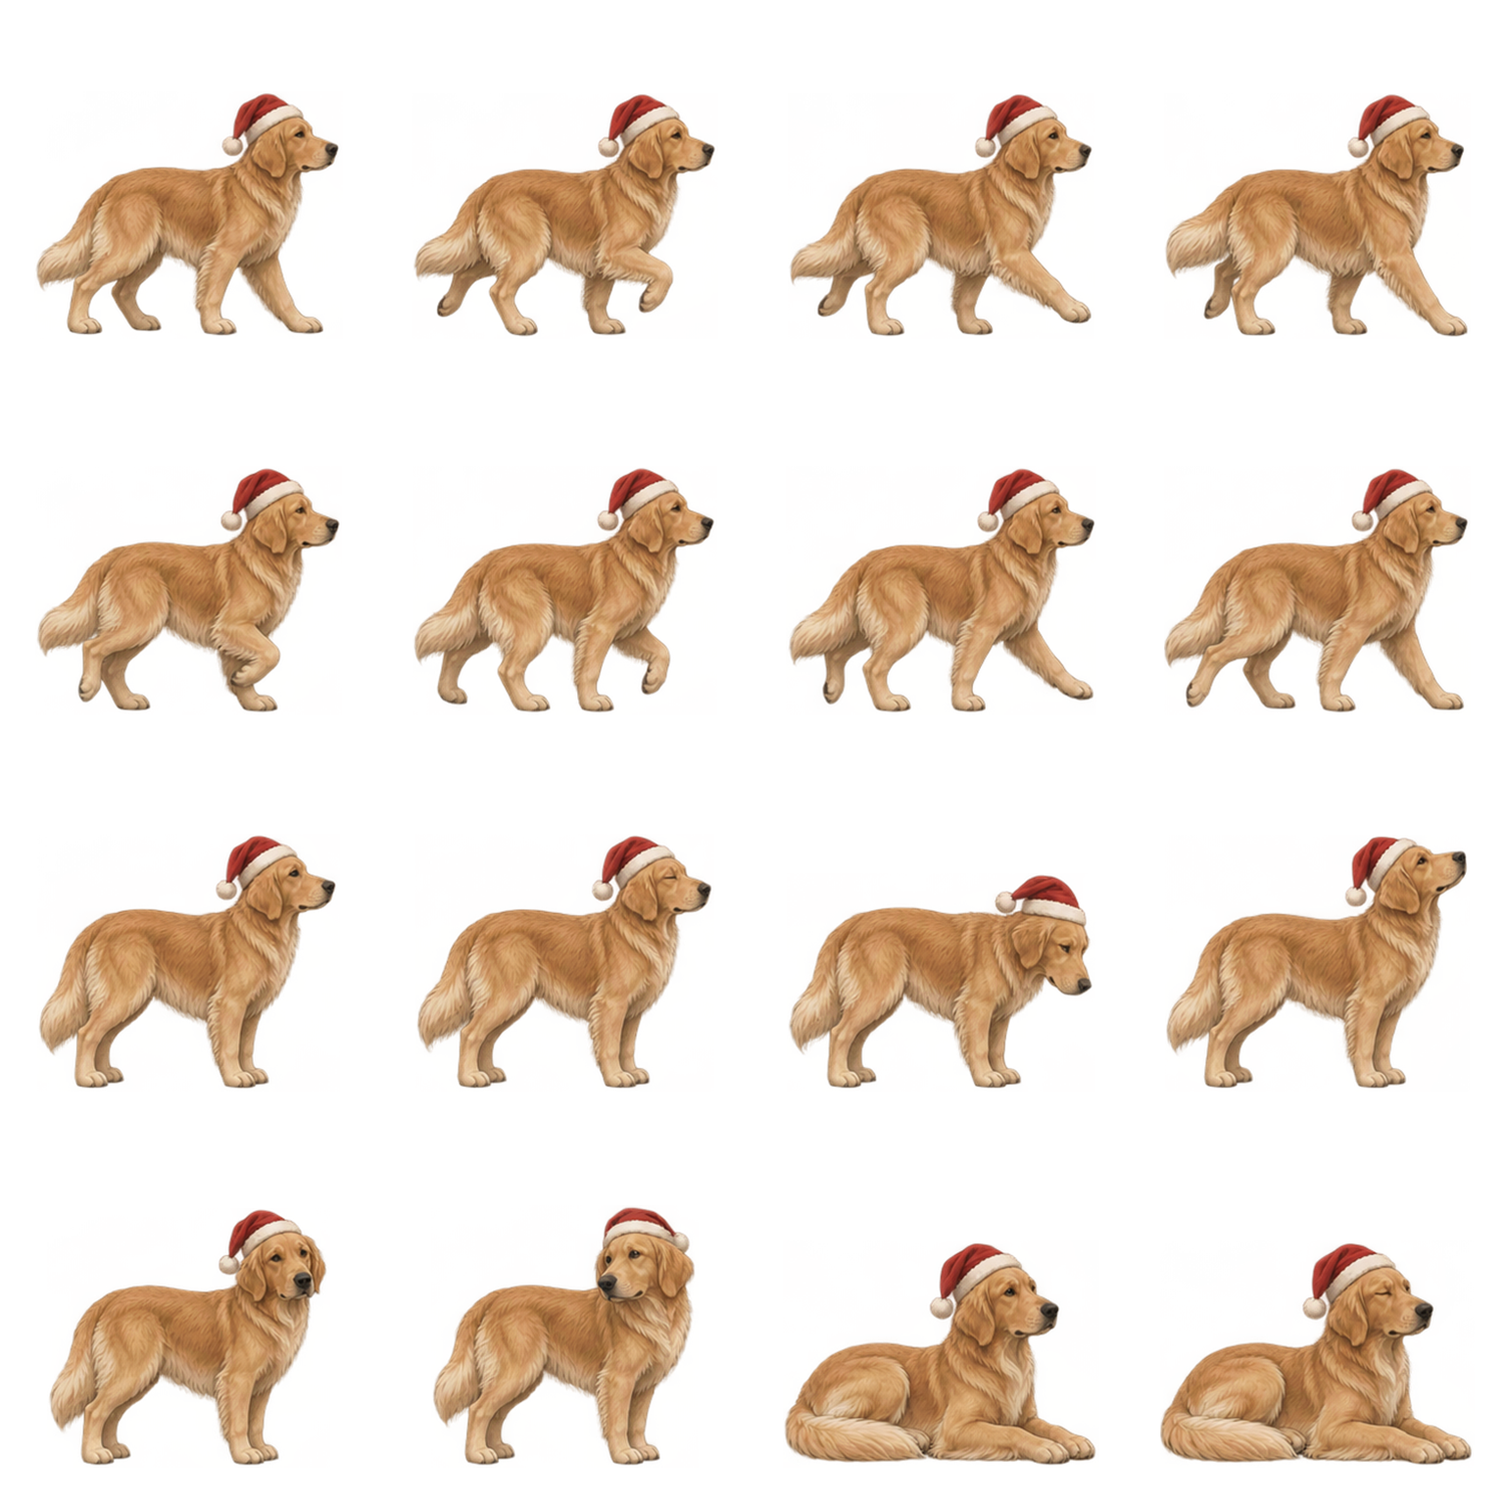
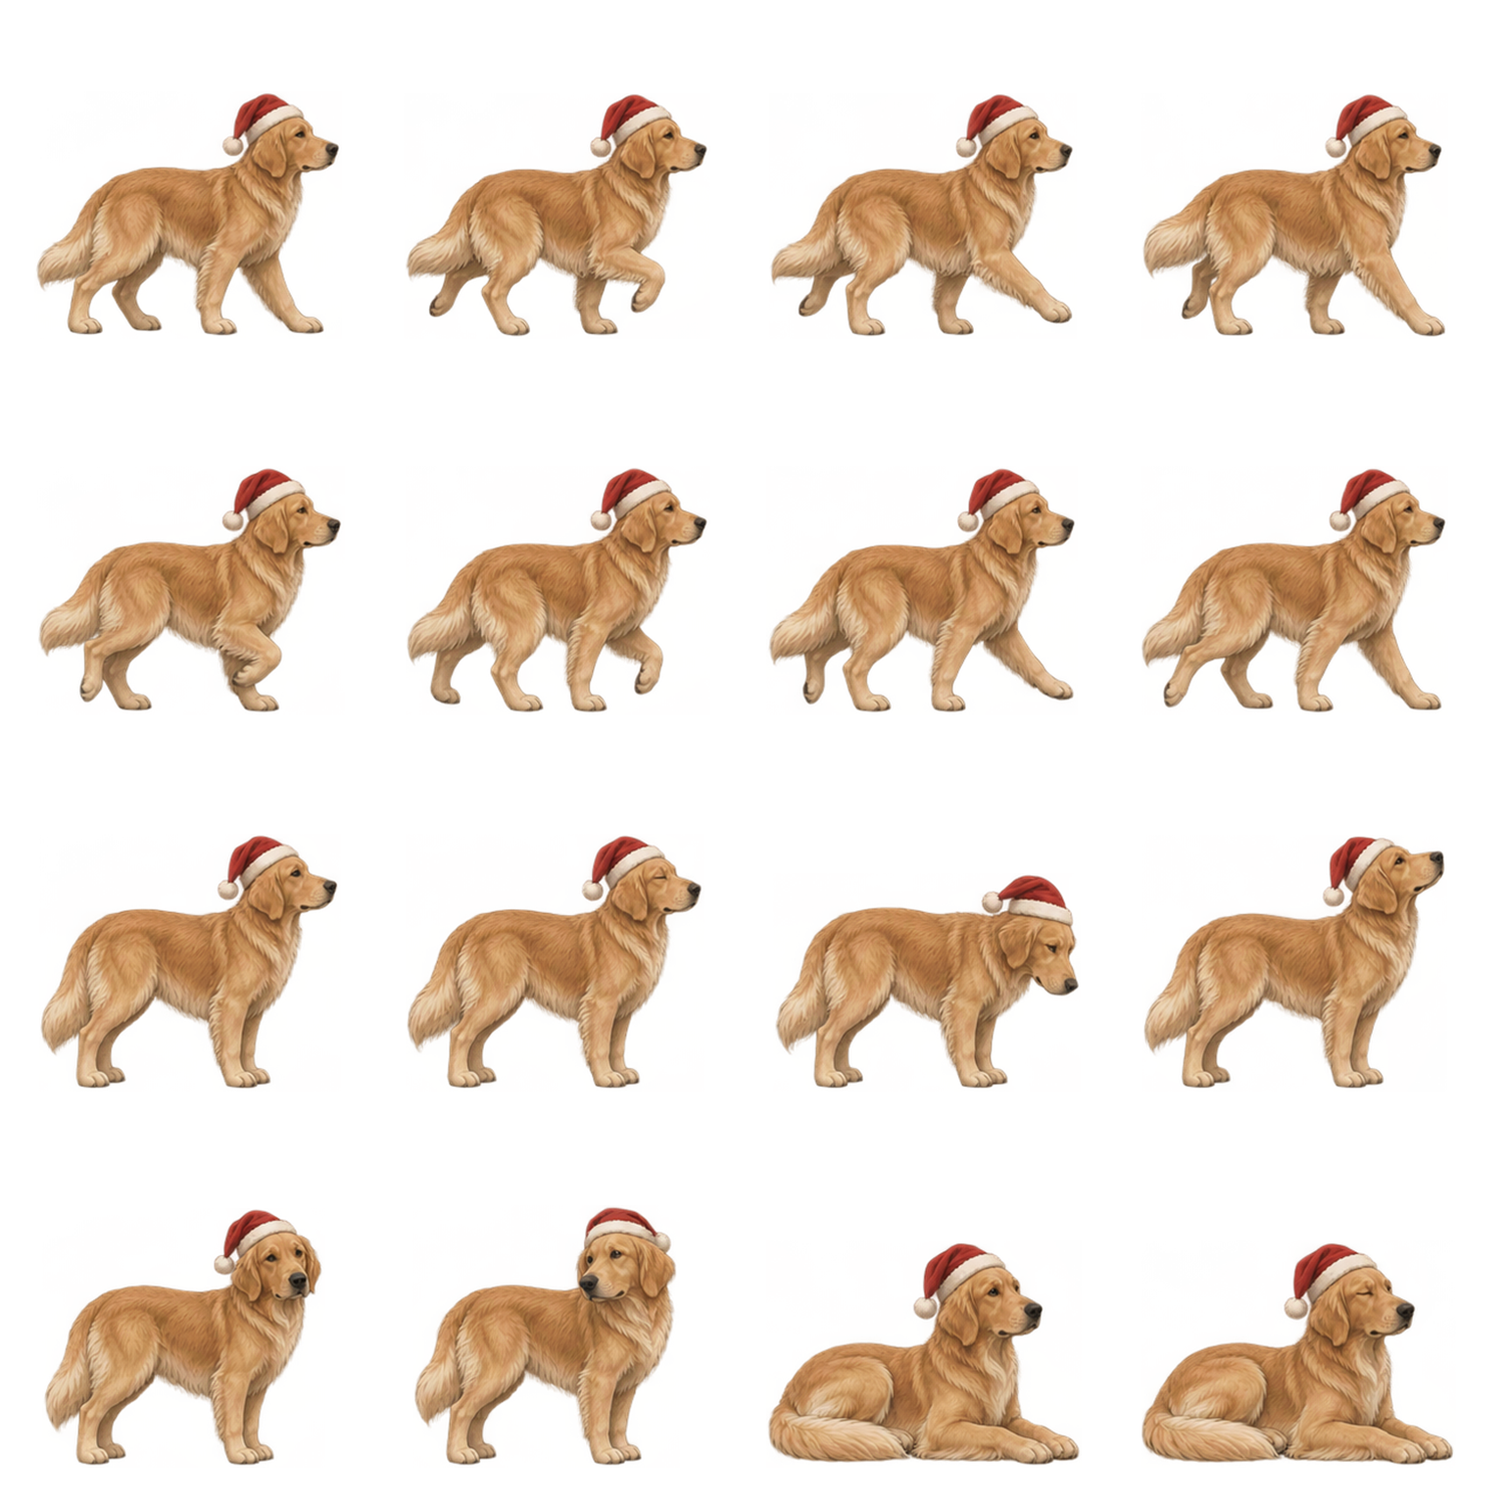
Refresh Christmas forest and improve sprite motion, rabbit behavior, and dance continuity

diff --git a/christmas.js b/christmas.js
@@ -8,11 +8,13 @@ window.GD_CHRISTMAS = (() => {
   const WALK = [0,1,2,3,4,5,6,7];
   const images = names => names.map(name => {
     const image = new Image();
-    image.src = new URL(`assets/christmas/${name}.png`, scriptBase).href;
+    image.src = new URL(`assets/christmas/${name}.png?v=20261121`, scriptBase).href;
     return image;
   });
   const assets = images(['millie','winston']);
-  const danceAssets = images(['millie-dance','winston-dance']);
+  const danceAssets = images(['millie-dance-v2','winston-dance-v2']);
+  const riseAssets = images(['millie-dance','winston-dance']);
+  const rabbitBehaviors = images(['winston-behaviors']);
   const waitForImages = list => Promise.all(list.map(image => new Promise(resolve => {
     if (image.complete) return resolve(image.naturalWidth > 0);
     image.onload = () => resolve(true);
@@ -20,7 +22,9 @@ window.GD_CHRISTMAS = (() => {
   })));
   const loaded = waitForImages(assets);
   let danceReady = false;
-  waitForImages(danceAssets).then(results => { danceReady = results.every(Boolean); });
+  waitForImages([...danceAssets,...riseAssets]).then(results => { danceReady = results.every(Boolean); });
+  let behaviorReady=false;
+  waitForImages(rabbitBehaviors).then(results=>{behaviorReady=results.every(Boolean);});
   let canvas, ctx, enabled = false, ready = false, raf = 0, lastDraw = 0;
   let width = 0, height = 0, floor = 0, sizes = [], protectedRects = [];
   let homePositions = [.105,.90];
@@ -66,7 +70,7 @@ window.GD_CHRISTMAS = (() => {
   }
   // Segments carry their own frame sequences, rather than translating still photos.
   function track(who) {
-    let x = homes()[who], t = 0, dir = -1;
+    let x = homes()[who], t = 0, dir = who?-1:1;
     const segments = [];
     const api = {
       segments,
@@ -78,10 +82,11 @@ window.GD_CHRISTMAS = (() => {
       go(to) {
         const edge=sizes[who]*.45/width;
         to=Math.max(edge,Math.min(1-edge,to));
-        const duration = Math.abs(to-x)*(who?26000:34000);
+        const hops=Math.max(1,Math.ceil(Math.abs(to-x)*width/(sizes[who]*.75)));
+        const duration = who?hops*520:Math.abs(to-x)*34000;
         if (duration < 1) return api;
         dir = to>x ? 1 : -1;
-        segments.push({t,d:duration,x0:x,x1:to,dir,frames:WALK,fps:who?11:10,hop:!!who});
+        segments.push({t,d:duration,x0:x,x1:to,dir,frames:WALK,fps:who?1000/65:10,hop:!!who,hops});
         t += duration; x = to; return api;
       },
       home() { api.go(homes()[who]); dir = who?-1:1; return api; },
@@ -93,9 +98,9 @@ window.GD_CHRISTMAS = (() => {
   const SCENES = [
     ['millie-stroll',(m,w) => { m.hold(8,500).go(.29).hold([8,10,10,8],2400).home(); w.hold([8,11,8],4500,2); }],
     ['winston-explores',(m,w) => { w.go(.68).hold([8,10,10,8],2600).home(); m.hold([14,14,12,14],6500,1); }],
-    ['christmas-greeting',(m,w) => { m.hold(8,400).go(.35).hold([8,12,8],3500,2).home(); w.go(.55).face(-1).hold([8,11,8],3500,2).home(); }],
+    ['christmas-greeting',(m,w) => { m.hold(8,400).go(.35).face(1).hold([8,12,8],5000,2).home(); w.go(.55).face(-1).hold([8,11,8],9000,2).home(); }],
     ['graph-watch',(m,w) => { m.hold(8,300).go(.25).hold([8,10,8,11,8],3800,2).home(); w.hold(8,2000).go(.75).hold([10,8,11,8],3000,2).home(); }],
-    ['follow-millie',(m,w) => { m.hold(8,300).go(.43).hold([8,13,8],2800,2).home(); w.hold(8,1300).go(.58).hold([8,12,8],2200,2).home(); }],
+    ['follow-millie',(m,w) => { m.hold(8,300).go(.43).hold([8,13,8],2800,2).home(); w.hold(8,1300).go(.58).face(-1).hold([8,12,8],8500,2).home(); }],
     ['snowflake-listening',(m,w) => { m.hold([8,11,8,12,8,9,8],6500,2).hold(14,1200); w.hold([8,11,8,13,8,9,8],6800,2); }],
     ['sniff-the-present',(m,w) => { m.hold(8,300).go(.065).hold([8,10,10,8,10,8],4400,2).home(); w.hold([8,12,8],6000,1); }],
     ['tree-inspection',(m,w) => { w.go(.94).hold([8,11,11,8,13,8],4300,2).home(); m.hold([14,12,14,9,14],6000,1); }],
@@ -103,22 +108,33 @@ window.GD_CHRISTMAS = (() => {
     ['winston-short-hop',(m,w) => { w.go(.81).hold([8,13,8],2100,2).go(.70).hold([8,10,8],2300,2).home(); m.hold([14,12,14],8000,1); }],
     ['settling-down',(m,w) => { m.hold([8,10,8,14,14,15,14],7000,1); w.hold([8,10,8,14,15,14,8],7000,1); }],
     ['crossing-paths',(m,w) => { m.hold(8,400).go(.64).hold([8,13,8],2200,2).home(); w.hold(8,1800).go(.38).hold([8,12,8],2300,2).home(); }],
+    ['rabbit-lookout',(m,w)=>{
+      w.face(-1).hold([0,1,2,3],700,1000/175,2).hold([4,5,6,7,6,5],3500,3,2).hold([3,2,1,0],700,1000/175,2);
+      m.face(1).hold([8,12,8,11,8],4900,2);
+    }],
+    ['rabbit-face-wash',(m,w)=>{
+      w.face(1).hold([15,8,9,10,11,12,13,10,11,12,13,14,15],5200,2.5,2);
+      m.face(1).hold([14,14,15,14],5200,1);
+    }],
+    ['playful-follow',(m,w)=>{
+      m.go(.38).face(1).hold([8,10,8,12],2600,2).home();
+      w.hold(8,800).go(.62).face(-1).hold(8,4500).hold([0,1,2,3,4,6,4,3,2,1,0],2600,4,2).home();
+    }],
     ['babydoll-dance',(m,w) => {
       for (const dancer of [m,w]) dancer.face(1)
-        .hold([0,1,2,3],800,5,1)          // rise onto hind legs
-        .hold([4,5,6,7],3000,8,1)        // side step-touches
-        .hold([8,9,10,11],3000,8,1)      // shoulder shimmies and points
-        .hold([12,13,14,15],4000,8,1)    // open-arm swings and knee bounces
-        .hold([3,2,1,0],800,5,1);        // settle back down
+        .hold([0,1,2,3],800,5,3)
+        .hold(Array.from({length:16},(_,i)=>i),10000,12,1)
+        .hold([3,2,1,0],800,5,3);
     }]
   ];
   function startScene(now) {
     const forced = Q.get('xscene');
-    const available = SCENES.filter(s => s[0] !== 'babydoll-dance' || danceReady);
+    const available = SCENES.filter(s => (s[0] !== 'babydoll-dance' || danceReady) &&
+      (!['rabbit-lookout','rabbit-face-wash','playful-follow'].includes(s[0]) || behaviorReady));
     const choices = available.filter(s => !recent.includes(s[0]));
     const selected = available.find(s => s[0] === forced) || choices[Math.floor(Math.random()*choices.length)];
     const m = track(0), w = track(1); selected[1](m,w);
-    m.face(-1).hold(14,500); w.face(-1).hold(8,500);
+    m.face(1).hold(14,500); w.face(-1).hold(8,500);
     scene = {name:selected[0],start:now,tracks:[m.segments,w.segments],duration:Math.max(m.duration,w.duration)};
     canvas.dataset.scene = selected[0];
     recent.push(selected[0]); if (recent.length>6) recent.shift();
@@ -127,7 +143,7 @@ window.GD_CHRISTMAS = (() => {
   function sample(who,now) {
     const home = homes()[who];
     const idleFrame = who ? 8 : 14;
-    const base = {x:home,dir:-1,frame:idleFrame,hop:0};
+    const base = {x:home,dir:who?-1:1,frame:idleFrame,hop:0};
     if (sleeping) { base.frame = who?15:15; return base; }
     if (state !== 'ok') return base;
     if (scene) {
@@ -135,13 +151,23 @@ window.GD_CHRISTMAS = (() => {
       const seg = scene.tracks[who].find(s => elapsed>=s.t && elapsed<s.t+s.d);
       if (seg) {
         const age = elapsed-seg.t, index = Math.floor(age*seg.fps/1000)%seg.frames.length;
-        return {x:seg.x0+(seg.x1-seg.x0)*Math.min(1,age/seg.d),dir:seg.dir,
-          frame:seg.frames[index],sheet:seg.sheet||0,hop:seg.hop ? Math.max(0,Math.sin(index/7*Math.PI))*sizes[who]*.14 : 0};
+        const phase=(age%520)/520, air=Math.max(0,Math.min(1,(phase-.13)/.65));
+        const stride=air*air*(3-2*air);
+        const progress=seg.hop?(Math.floor(age/520)+stride)/seg.hops:Math.min(1,age/seg.d);
+        return {x:seg.x0+(seg.x1-seg.x0)*progress,dir:seg.dir,
+          frame:seg.frames[index],sheet:seg.sheet||0,hop:seg.hop ? Math.sin(air*Math.PI)*sizes[who]*.23 : 0};
       }
     }
-    if (readingUntil>now) base.frame = 11;
+    if (readingUntil>now && who) base.frame = 11;
     else if ((now+who*3100)%9200<160) base.frame = who?9:15;
     return base;
+  }
+  const visuals=[null,null];
+  function paint(who,s,alpha=1) {
+    const image=s.sheet===3?riseAssets[who]:s.sheet===2?rabbitBehaviors[0]:s.sheet===1?danceAssets[who]:assets[who];
+    const size=sizes[who],tileW=image.naturalWidth/4,tileH=image.naturalHeight/4;
+    ctx.save();ctx.globalAlpha*=alpha;ctx.translate(s.x*width,floor+size*.10-s.hop);ctx.scale(s.dir,1);
+    ctx.drawImage(image,(s.frame%4)*tileW,Math.floor(s.frame/4)*tileH,tileW,tileH,-size/2,-size,size,size);ctx.restore();
   }
   function draw(now) {
     ctx.clearRect(0,0,width,height);
@@ -152,16 +178,16 @@ window.GD_CHRISTMAS = (() => {
     ctx.save();
     ctx.globalAlpha = sleeping ? .42 : state==='ok' ? 1 : .6;
     for (let who=0;who<2;who++) {
-      const s=sample(who,now), image=(s.sheet?danceAssets:assets)[who];
-      const headroom=floor-Math.max(...protectedRects.slice(2,4).map(r=>r.y+r.h))-12;
-      const size=s.sheet?Math.min(sizes[who],headroom/.84):sizes[who];
-      const tileW=image.naturalWidth/4,tileH=image.naturalHeight/4;
-      ctx.save(); ctx.translate(s.x*width,floor+size*.10-s.hop);
-      ctx.scale(s.dir,1);
-      ctx.drawImage(image,(s.frame%4)*tileW,Math.floor(s.frame/4)*tileH,tileW,tileH,-size/2,-size,size,size);
-      ctx.restore();
+      const s=sample(who,now),v=visuals[who];
+      const changed=v && ((v.last.sheet||0)!==(s.sheet||0)||v.last.dir!==s.dir||
+        (!s.sheet && s.frame>=8 && v.last.frame!==s.frame));
+      if(!v)visuals[who]={last:s,from:null,start:now};
+      else {if(changed){v.from=v.last;v.start=now;}v.last=s;}
+      const visual=visuals[who],blend=Math.min(1,(now-visual.start)/140);
+      if(visual.from && blend<1)paint(who,{...visual.from,x:s.x,hop:s.hop},1-blend);
+      paint(who,s,visual.from?blend:1);
       canvas.dataset[who?'winstonFrame':'millieFrame']=String(s.frame);
-      canvas.dataset[who?'winstonSheet':'millieSheet']=s.sheet?'dance':'original';
+      canvas.dataset[who?'winstonSheet':'millieSheet']=s.sheet===3?'rise':s.sheet===2?'behavior':s.sheet?'dance':'original';
     }
     ctx.restore();
     // Erase the union of protected areas, including overlapping rectangles.
@@ -180,18 +206,10 @@ window.GD_CHRISTMAS = (() => {
     sizes=[Math.min(height*.29,width*.25),Math.min(height*.17,width*.15)];
     homePositions=width<height?[.15,.85]:[.105,.90];
     // First calculate the previous fitted sizes, then apply the requested scale.
-    const zones=protectedRects.slice(0,2);
-    for(let who=0;who<2;who++) {
-      const relevant=zones.filter(r=>r.y<floor && r.y+r.h>floor-sizes[who]*.84);
-      if(!relevant.length)continue;
-      const free=who?width-Math.max(...relevant.map(r=>r.x+r.w)):Math.min(...relevant.map(r=>r.x));
-      if(free>30 && free<width*.3) {
-        sizes[who]=Math.min(sizes[who],free*.95);
-        homePositions[who]=who?Math.max(homePositions[who],1-free/width/2):Math.min(homePositions[who],free/width/2);
-      }
-    }
-    sizes[0]*=2.5;
-    sizes[1]*=1.3;
+    // Lock scale to viewport geometry, never to the pulsing number's bounds.
+    const headroom=floor-Math.max(...protectedRects.slice(3,5).map(r=>r.y+r.h))-12;
+    sizes=[Math.min(height*.56,width*.38,headroom/.84),Math.min(height*.221,width*.195,headroom/.84)];
+    homePositions=width<height?[.20,.85]:[.16,.90];
     // Millie's head faces the clear left edge at rest; her body may pass behind
     // the number. Keep the full larger silhouette within the screen edges.
     homePositions[0]=Math.min(.45*sizes[0]/width,1-.45*sizes[0]/width);
@@ -213,7 +231,7 @@ window.GD_CHRISTMAS = (() => {
       if (scene && now-scene.start>scene.duration) { scene=null; canvas.dataset.scene='rest'; }
       if (!scene && now>=nextScene) startScene(now);
     }
-    if (now-lastDraw>=80) { draw(now); lastDraw=now; }
+    if (now-lastDraw>=40) { draw(now); lastDraw=now; }
     raf=requestAnimationFrame(loop);
   }
   async function setEnabled(value) {

diff --git a/index.html b/index.html
@@ -192,7 +192,7 @@ body:not(.simple) #bg,body:not(.simple) #side,body:not(.simple) header{text-shad
 </div>
 
 <script src="sprites.js"></script>
-<script src="christmas.js?v=20261109c"></script>
+<script src="christmas.js?v=20261121"></script>
 <script>
 "use strict";
 const APP_ID = "d89443d2-327c-4a6f-89e5-496bbb0317db";
@@ -711,9 +711,9 @@ const FX = (() => {
       hats: { m: { head: ACC.pilgrim }, w: { neck: ACC.scarf("#C7692B", GOLD) } },
       decor: () => D("pumpkin", 3, 6) + D("pumpkin", 96.500, 7.500) + D("pie", 90, 5) + D("leafpile", 6.500, 6) },
     { id: "christmas", name: "Christmas", when: (d, md) => md >= 1101 && md <= 1230, // Nov 1 – Dec 30
-      sky: sky2("rgba(30,120,75,.30)", "rgba(160,30,35,.14)"), glow: "#ff6b6b", amb: ["snow", 30], tags: ["xmas", "snow"],
+      sky: 'linear-gradient(to bottom,rgba(3,8,16,.25),rgba(3,8,16,.10) 60%,#05070a 82%),url("assets/christmas/winter-night.png") center top/100% 86% no-repeat', glow: "#8ba8bc", amb: ["snow", 30], tags: ["xmas", "snow"],
       hats: { m: { head: ACC.santa, neck: ACC.scarf("#1F7A4A", "#fff") }, w: { head: ACC.antlers, neck: ACC.scarf("#D8322F", "#fff") } },
-      decor: () => lights(["#FF5A5F", "#FFD23F", "#3ddc84", "#4AA3FF"]) + mounds("#eef4fa") + D("tree", 96.500, 12) + D("present", 1.800, 3.600) + D("star", 5, 3.200, 50, "twk"),
+      decor: () => "",
       carry: "candycane", flyer: "sleigh", flutter: "cardinal" },
     { id: "winter", name: "Winter", when: d => [11, 0, 1].includes(d.getMonth()),
       sky: sky2("rgba(60,110,190,.26)", "rgba(120,160,220,.10)"), glow: "#9fc3ff", amb: ["snow", 24], tags: ["snow"],

diff --git a/assets/christmas/ART.md b/assets/christmas/ART.md
@@ -23,3 +23,15 @@ Frames read left to right and top to bottom. 0–7 are movement; 8 neutral; 9 bl
 Dance prompt: redraw each animal individually, standing on its two hind legs with natural animal forepaws rather than human hands, in a fixed front-facing camera with consistent scale and floor, sixteen distinct articulated poses. Row one: sit, lift chest, halfway upright, fully upright. Row two: side step left, feet together with forepaws swinging right, side step right swinging paws left, feet together knee bounce. Row three: shoulder shimmy left, shimmy right, point diagonally outward with one forepaw, opposite paw points with weight shifted. Row four: paws sweep open at shoulder height, wide V with one hind foot lifted, paws swing down across chest, open arms with opposite hind foot lifted. Match the restrained illustrated style and likeness; full bodies contained within equal tiles with transparent padding; no paper, floor, shadows, text or scenery.
 
 The timing adapts the Jamie Miller Babydoll two-step's side steps, shimmies, points and open-arm swings described in this [dance reference](https://babydolldance.net/babydoll-dance-trend). Frames 4–7 play for 3 seconds, 8–11 for 3 seconds, and 12–15 for 4 seconds, all synchronized at 8 fps. Frames 0–3 and their reverse provide separate 0.8-second rise/settle transitions. The originals remain unchanged.
+
+## November 21 quality refresh
+
+Reviewed the walking, hopping and both dance sheets. Re-registered all four original packs using `prepare-sheets.ps1 -GridAnchor`, keeping each cell's horizontal root instead of re-centering its changing silhouette. One shared scale per sheet and a common floor keep feet aligned. Original dance sheets now serve only as rise/settle transitions. Runtime scale is fixed across packs and independent of pulse/digit bounds.
+
+New art generated with the built-in image generation tool from the same approved reference:
+
+- `winter-night.png`: wide, very dark navy/spruce Christmas background; large detailed painted snow-laden evergreens at both borders, sparse amber lights, dark open central sky, subdued distant trees, snowbank fading into black chart space. No animals, UI, text or baked-in snowfall. Match the naturalistic illustrated shading of the animals.
+- `winston-behaviors.png`: 4×4 transparent equal-grid sheet; identical adult rabbit head/body scale, coat and scarf. Frames 0–3: sit, lean back, chest rising, upright. Frames 4–7: upright look left, up, right, forward. Frames 8–15: lift paws, touch nose, sweep paws over eyes, down cheeks, forehead/ear rub, lower paws, rest. Natural short rabbit forepaws; consistent camera/floor; no shadows or background.
+- `millie-dance-v2.png`, `winston-dance-v2.png`: separate 4×4 continuous front-facing upright cycles. Same head size, torso length and stance baseline across all frames. Frames 0–7: small incremental left/right step-touches with swinging forepaws and knee bounce. Frames 8–15: shoulder dips, gradually extend one pointing paw, return through center, extend opposite paw, return to first pose. One coherent smooth loop, not disconnected gestures; preserve likeness, adult proportions and Christmas accessories. Full transparent padding and no floor/shadows/text.
+
+New dance frames loop at 12 fps for exactly 10 seconds, with 0.8-second transitions on either side. Original twelve scenes plus the existing dance remain, with `rabbit-lookout`, `rabbit-face-wash`, and `playful-follow` added. Review checks cover fixed size during changing/pulsing number bounds, hop takeoff/landing, all sixteen scenes, dance duration/synchronization, quiet modes, and optional-art failure.

diff --git a/CLAUDE.md b/CLAUDE.md
@@ -28,9 +28,11 @@ Seasonal decoration is the `FX` module near the bottom of `index.html`. Christma
 ### Illustrated Christmas pack (approved November 2026)
 - Replaces the photo animals **only** for the Christmas theme; other seasons retain the existing characters.
 - Two transparent 4×4 sheets, 16 separately drawn frames per animal: eight walking/hopping phases plus eight gestures/rest poses. Mature proportions and restrained expressions, Santa hat for Millie and burgundy scarf for Winston.
-- Display scale: Millie is 2.5× the previous fitted size; Winston is 1.3×. Millie rests facing the clear left edge, with her body passing naturally behind the number. No measurement positions or sizes change.
-- `christmas.js` draws at about 12 fps using time-based frame selection and a lightweight canvas. Thirteen scenes, 55–85 seconds between starts, with no repeat among the previous six. The number's new-reading pulse stays on.
-- `babydoll-dance` adds sixteen upright frames per animal in `millie-dance.png` and `winston-dance.png`. Both rise for 0.8 seconds, dance in sync for exactly 10 seconds (two-step, shimmy/point, arm swings), and settle for 0.8 seconds. All original twelve scenes remain in the rotation. Optional dance art failures skip only this scene. Preview with `&xscene=babydoll-dance&fast`.
+- Display scale is locked to viewport dimensions and available header clearance, across every sheet. Never use the pulsing number to calculate animal scale. Millie remains large; Winston keeps his enlarged size. They rest facing each other, and movement determines their direction. No measurement positions or sizes change.
+- `christmas.js` paints at about 25 fps with time-based frame selection. Sixteen scenes, 55–85 seconds between starts, with no repeat among the previous six. The number's new-reading pulse stays on. Pose/sheet changes dissolve over 140ms without scaling.
+- Rabbit travel uses 520ms ballistic hops: grounded crouch, quick airborne stride, and grounded landing. `winston-behaviors.png` adds rising/lookout and face-washing frames; three new behavior/interaction scenes join the existing rotation.
+- `babydoll-dance` uses the new continuous `millie-dance-v2.png` and `winston-dance-v2.png` cycles. Original dance sheets provide 0.8-second rise/settle transitions. The upright cycle is synchronized for exactly 10 seconds. Missing optional art skips only affected scenes. Preview with `&xscene=babydoll-dance&fast`.
+- Christmas now uses a dark illustrated `winter-night.png` forest with large snow-laden evergreen borders and amber lights, matching the animals. The original geometric trees/props/garland are removed only from Christmas; animated snowfall is preserved. The background bank is aligned near the animal floor; the chart region fades to black.
 - The overlay is outside `#app`, never changes its DOM, CSS, number, information or chart layout, and allows taps to pass through. It pauses offscreen and honors Animations On/Off. Loading failures leave readings and polling working.
 - Tests: `node --test tools/christmas.test.cjs`. Local preview: `node tools/preview-server.cjs`, then `http://127.0.0.1:8201/?demo&theme=christmas&fast`. Force a vignette with `&xscene=crossing-paths`; force sleep with `&night`.
 - Source art was generated with the built-in image generation tool using the user's approved likeness preview. `tools/prepare-sheets.ps1` slices the equal-grid art and aligns scale/feet into 384px tiles; no poses are synthesized by transforms. Prompt specification is in `assets/christmas/ART.md`.
